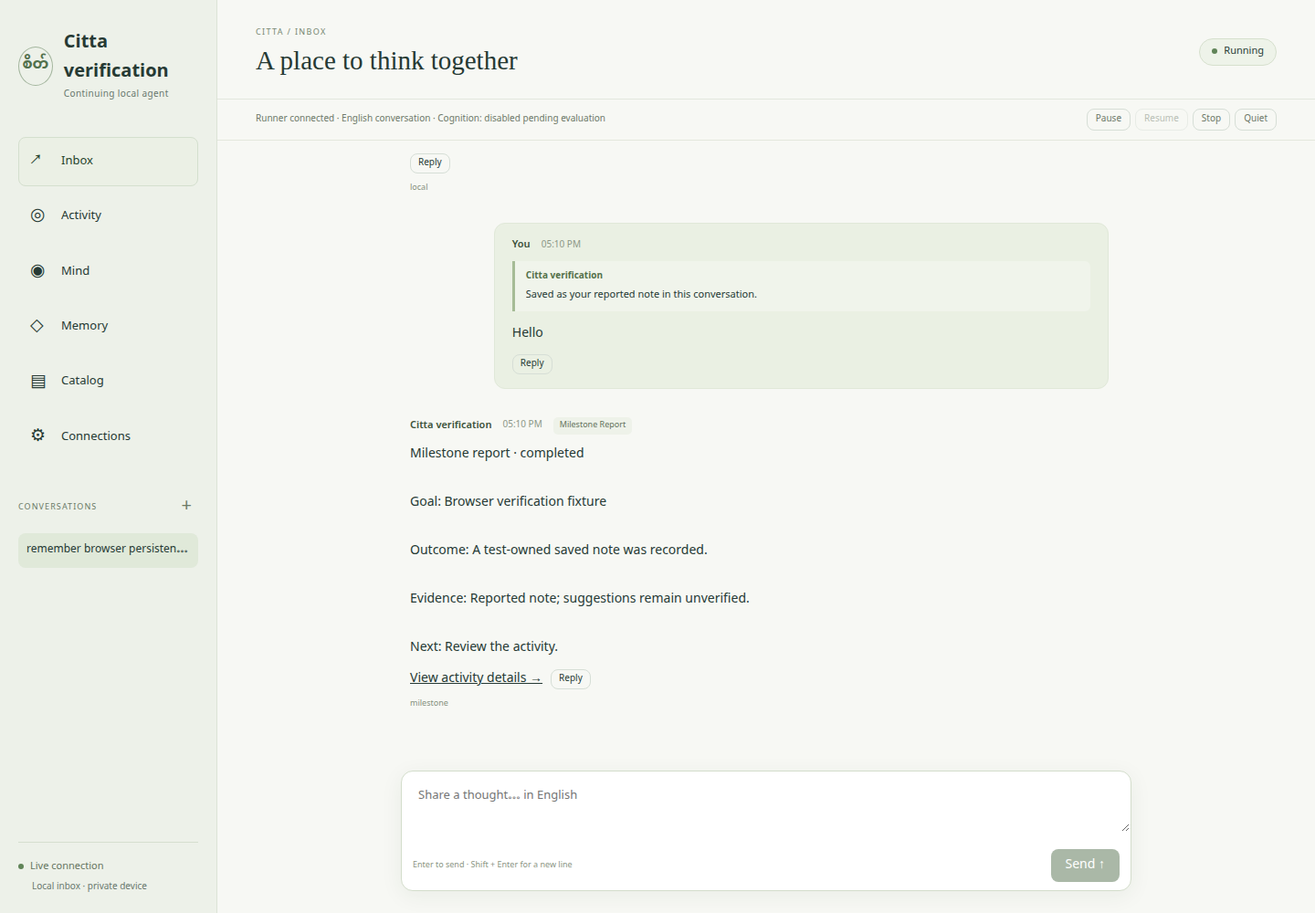
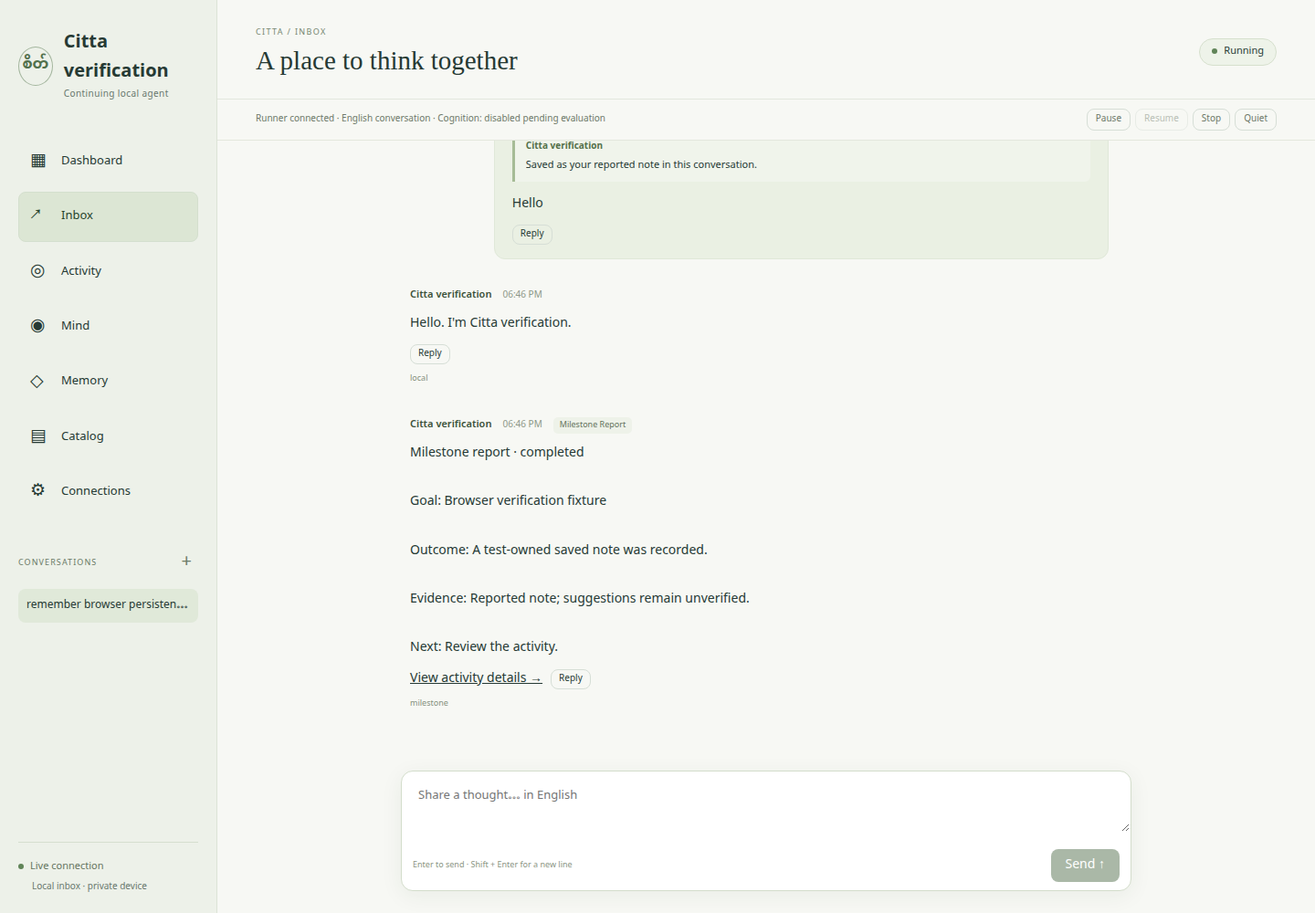
feat: add dashboard for Kyaw2 updates and questions

diff --git a/web/main.tsx b/web/main.tsx
@@ -1,16 +1,17 @@
+import {DashboardPage} from './DashboardPage.tsx';
 import {ConnectionsPage} from './ConnectionsPage.tsx';
 import React, {useCallback, useEffect, useLayoutEffect, useRef, useState} from 'react';
 import {createRoot} from 'react-dom/client';
-import type {RuntimeState, Message} from './types.ts';
+import type {RuntimeState, Message, DashboardMessage} from './types.ts';
 import {api} from './api.ts';
 import {MemoryRecords} from './MemoryRecords.tsx';
 import {MindPage} from './MindPage.tsx';
 import {ActivityPage} from './ActivityPage.tsx';
 import './style.css';
-type View = 'inbox'|'activity'|'mind'|'memory'|'catalog'|'connections';
+type View = 'dashboard'|'inbox'|'activity'|'mind'|'memory'|'catalog'|'connections';
 type Pending = {conversationId:string;messageId:string;text:string;replyToContactId?:string;replyToMessageId?:string};
 function readPending(): Pending|null { try {return JSON.parse(localStorage.getItem('citta.pending')||'null');} catch {return null;} }
-function viewFromHash():View {const name=location.hash.replace(/^#\/?/,'').split('/')[0];return ['inbox','activity','mind','memory','catalog','connections'].includes(name)?name as View:'inbox';}
+function viewFromHash():View {const name=location.hash.replace(/^#\/?/,'').split('/')[0];return ['dashboard','inbox','activity','mind','memory','catalog','connections'].includes(name)?name as View:'dashboard';}
 const timestamp = (value: string) => new Date(value).toLocaleTimeString([],{hour:'2-digit',minute:'2-digit'});
 function App() {
   const [view,setView]=useState<View>(viewFromHash);
@@ -43,6 +44,8 @@ function App() {
   const follow=useRef(true);
   const loadVersion=useRef(0);
   const draftRef=useRef<HTMLTextAreaElement>(null);
+  const dashboardReply=useRef<DashboardMessage|null>(null);
+  function openDashboardMessage(message:DashboardMessage,reply:boolean){dashboardReply.current=reply?message:null;setReplyMessage(null);setConversation(message.conversation_id);navigate('inbox');}
   const load=useCallback(async()=> {
     const version=++loadVersion.current;
     try {
@@ -79,6 +82,7 @@ function App() {
     observer.observe(element);return ()=>observer.disconnect();
   },[view,conversation]);
   useEffect(()=>{follow.current=true;setJump(false);setReplyMessage(null);setOlder([]);setHistoryEnd(false);previousWindow.current=[];historyRequested.current=false;},[conversation]);
+  useEffect(()=>{const message=dashboardReply.current;if(message&&view==='inbox'&&conversation===message.conversation_id&&loadedConversation===conversation){setReplyMessage({id:message.id,role:message.role,text:message.text});dashboardReply.current=null;draftRef.current?.focus();}},[view,conversation,loadedConversation]);
   useLayoutEffect(()=>{if(previousHeight.current&&thread.current){thread.current.scrollTop+=thread.current.scrollHeight-previousHeight.current;previousHeight.current=0;}},[older]);
   useEffect(()=> {
     const seen=()=>{if(view==='inbox'&&conversation&&document.visibilityState==='visible')void api('/api/seen',{conversationId:conversation}).catch(()=>{});};
@@ -117,16 +121,17 @@ function App() {
   const filtered=rows.filter(row=>(catalogType!=='citta'||row.projection==='shared'||row.projection===projection)&&JSON.stringify(row).toLocaleLowerCase().includes(search.toLocaleLowerCase()));
   return <div className="app">
     <aside className="rail">
-      <a className="brand" href="#" onClick={e=>{e.preventDefault();navigate('inbox');}}><span className="brand-mark">စိတ်</span><span>{state?.profile.name||'Citta'}<small>Continuing local agent</small></span></a>
-      <nav aria-label="Main navigation">{([['inbox','Inbox','↗'],['activity','Activity','◎'],['mind','Mind','◉'],['memory','Memory','◇'],['catalog','Catalog','▤'],['connections','Connections','⚙']] as const).map(([key,label,icon])=><button key={key} aria-current={view===key?'page':undefined} className={view===key?'selected':''} onClick={()=>navigate(key)}><span aria-hidden="true">{icon}</span>{label}{key==='activity'&&activeGoals.length>0&&<b>{activeGoals.length}</b>}</button>)}</nav>
+      <a className="brand" href="#" onClick={e=>{e.preventDefault();navigate('dashboard');}}><span className="brand-mark">စိတ်</span><span>{state?.profile.name||'Citta'}<small>Continuing local agent</small></span></a>
+      <nav aria-label="Main navigation">{([['dashboard','Dashboard','▦'],['inbox','Inbox','↗'],['activity','Activity','◎'],['mind','Mind','◉'],['memory','Memory','◇'],['catalog','Catalog','▤'],['connections','Connections','⚙']] as const).map(([key,label,icon])=><button key={key} aria-current={view===key?'page':undefined} className={view===key?'selected':''} onClick={()=>navigate(key)}><span aria-hidden="true">{icon}</span>{label}{key==='activity'&&activeGoals.length>0&&<b>{activeGoals.length}</b>}</button>)}</nav>
       <div className="conversation-heading"><span>CONVERSATIONS</span><button title="New conversation" aria-label="New conversation" onClick={()=>{setConversation(crypto.randomUUID());navigate('inbox');}}>+</button></div>
       <div className="conversations">{state?.conversations.map(c=><button key={c.id} className={conversation===c.id?'current':''} onClick={()=>{setConversation(c.id);navigate('inbox');}}>{c.title}</button>)}{!state?.conversations.length&&<p className="muted">Your conversations will appear here.</p>}</div>
       <div className="rail-footer"><span className={'dot '+(connected?'online':'')}/>{connected?'Live connection':'Reconnecting…'}<small>Local inbox · private device</small></div>
     </aside>
     <main>
-      <header className="topbar"><div><div className="eyebrow">CITTA / {view.toUpperCase()}</div><h1>{view==='inbox'?'A place to think together':view==='activity'?'Thought & ongoing work':view==='mind'?`${state?.profile.name||'Citta'}’s mind`:view==='memory'?'Saved experience':view==='connections'?'Connect reasoning':'Reference catalog'}</h1></div><div className={'mode '+(state?.agent.control||'offline')}><span className="dot"/>{state?.agent.control||'Connecting'}</div></header>
+      <header className="topbar"><div><div className="eyebrow">CITTA / {view.toUpperCase()}</div><h1>{view==='dashboard'?`${state?.profile.name||'Kyaw2'}’s dashboard`:view==='inbox'?'A place to think together':view==='activity'?'Thought & ongoing work':view==='mind'?`${state?.profile.name||'Citta'}’s mind`:view==='memory'?'Saved experience':view==='connections'?'Connect reasoning':'Reference catalog'}</h1></div><div className={'mode '+(state?.agent.control||'offline')}><span className="dot"/>{state?.agent.control||'Connecting'}</div></header>
       <div className="mobile-conversations"><label className="sr-only" htmlFor="conversation">Conversation</label><select id="conversation" value={conversation} onChange={e=>setConversation(e.target.value)}>{!state?.conversations.some(c=>c.id===conversation)&&<option value={conversation}>New conversation</option>}{state?.conversations.map(c=><option key={c.id} value={c.id}>{c.title}</option>)}</select><button aria-label="New conversation" onClick={()=>{setConversation(crypto.randomUUID());navigate('inbox');}}>＋ New</button></div><div className="controlbar"><span>{health.runner==='ready'?'Runner connected':'Runner unavailable'} · English conversation · Cognition: {health.cognition||'checking'}{health.cognition==='connect from Connections'&&<button className="connection-shortcut" onClick={()=>navigate('connections')}>Connect Codex →</button>}</span><div><button disabled={!state||busy||state.agent.control==='paused'} onClick={()=>void control('pause')}>Pause</button><button disabled={!state||busy||state.agent.control==='running'} onClick={()=>void control('resume')}>Resume</button><button disabled={!state||busy||state.agent.control==='stopped'} onClick={()=>void control('stop')}>Stop</button><button aria-pressed={state?.agent.quiet||false} disabled={!state||busy} onClick={()=>void control(state?.agent.quiet?'unquiet':'quiet')}>{state?.agent.quiet?'Quiet on':'Quiet'}</button></div></div>
       {error&&<div className="error" role="alert"><span>{error}</span><button aria-label="Dismiss error" onClick={()=>setError('')}>×</button></div>}
+      {view==='dashboard'&&<DashboardPage state={state} onOpen={openDashboardMessage} replyDisabled={sending||!!pending} onMind={()=>navigate('mind')} onActivity={id=>{location.hash='/activity/'+id;setView('activity');}}/>}
       {view==='inbox'&&<section className="inbox" aria-label="Conversation">
         {activeGoals.length>0&&<div className="ongoing"><span className="pulse"/> {activeGoals.length} ongoing {activeGoals.length===1?'commitment':'commitments'}<button onClick={()=>navigate('activity')}>View activity →</button></div>}
         <div className="thread" ref={thread} onScroll={()=>{const el=thread.current;if(el){follow.current=el.scrollHeight-el.scrollTop-el.clientHeight<100;if(follow.current)setJump(false);}}}>

diff --git a/tools/local/browser-verification.ts b/tools/local/browser-verification.ts
@@ -26,7 +26,7 @@ try {
   console.log('Browser: '+browser.version());
   const context=await browser.newContext({viewport:{width:1440,height:1000}}),page=await context.newPage();
   page.on('pageerror',e=>errors.push(e.message));page.on('console',m=>{if(m.type()==='error')errors.push(m.text());});
-  await page.goto(base);await expect(page.getByRole('heading',{name:'A place to think together'})).toBeVisible();
+  await page.goto(base+'/#/inbox');await expect(page.getByRole('heading',{name:'A place to think together'})).toBeVisible();
   const editor=page.getByRole('textbox',{name:'Message Citta'});
   await editor.fill('remember browser persistence check');await editor.press('Enter');
   await expect(page.locator('.message.citta').filter({hasText:'Saved as your reported note'})).toHaveCount(1,{timeout:15000});
@@ -61,14 +61,27 @@ try {
   await expect(page.locator('.reply-topic')).toBeVisible();await expect(editor).toBeFocused();
   await editor.fill('Hello');await editor.press('Enter');
   await expect(page.locator('.message.operator').last().locator('.message-quote')).toBeVisible();await expect(editor).toBeFocused();
+  await expect(page.locator('.message.citta').last()).toContainText("Hello. I'm Citta verification.");
   passed('conversation Reply quotes the selected message and keeps the composer focused');
   // Explicit browser-only report fixture; never inserted in the operator database.
   const reportGoal=(await db.query('SELECT id,observation_id FROM citta.goals WHERE agent_id=$1 AND conversation_id=$2 ORDER BY created_at LIMIT 1',[agent,conversation])).rows[0];
   await db.query("INSERT INTO citta.messages(id,agent_id,conversation_id,role,text,goal_id,observation_id,source) VALUES($1,$2,$3,'citta',$4,$5,$6,'milestone')",[randomUUID(),agent,conversation,'Milestone report · completed\n\nGoal: Browser verification fixture\n\nOutcome: A test-owned saved note was recorded.\n\nEvidence: Reported note; suggestions remain unverified.\n\nNext: Review the activity.',reportGoal.id,reportGoal.observation_id]);
-  await page.goto(base);await expect(page.getByRole('link',{name:'View activity details →'})).toBeVisible();
+  await page.goto(base+'/#/inbox');await page.reload();await expect(page.getByRole('link',{name:'View activity details →'})).toBeVisible();
   await page.getByRole('link',{name:'View activity details →'}).click();await expect(page.getByRole('heading',{name:'Processing steps'})).toBeVisible();
   await page.getByRole('button',{name:/Inbox/}).click();await expect(page.locator('.message').last()).toContainText('Milestone report');
   passed('milestone report is readable in conversation and opens its actual activity');
+  await page.goto(base);await expect(page.getByRole('navigation',{name:'Main navigation'}).getByRole('button',{name:'Dashboard',exact:true})).toHaveAttribute('aria-current','page');
+  await page.getByRole('button',{name:'Milestone reports',exact:true}).click();
+  const dashboardReport=page.locator('.dashboard-updates article').filter({hasText:'Browser verification fixture'});
+  await expect(dashboardReport).toBeVisible();await page.screenshot({path:'artifacts/verification/dashboard-desktop.png',fullPage:true});
+  await page.setViewportSize({width:390,height:844});assert.ok(await page.evaluate(()=>document.documentElement.scrollWidth<=innerWidth));await page.screenshot({path:'artifacts/verification/dashboard-mobile.png',fullPage:true});await page.setViewportSize({width:1440,height:1000});
+  await dashboardReport.getByRole('button',{name:'Reply',exact:true}).click();
+  await expect(page).toHaveURL(/#\/inbox$/);await expect(page.locator('.reply-topic')).toContainText('Browser verification fixture');await expect(editor).toBeFocused();
+  await page.getByRole('button',{name:'Cancel reply',exact:true}).click();
+  await page.getByRole('navigation',{name:'Main navigation'}).getByRole('button',{name:'Mind',exact:true}).click();await page.reload();await expect(page.getByRole('heading',{name:'Citta verification’s mind',exact:true})).toBeVisible();
+  await page.getByRole('navigation',{name:'Main navigation'}).getByRole('button',{name:'Inbox',exact:true}).click();await page.reload();await expect(editor).toBeVisible();
+  passed('dashboard landing/report filter opens the source quoted reply; refresh preserves Mind and Inbox');
+
   await page.screenshot({path:'artifacts/verification/milestone-desktop.png',fullPage:true});
   await page.setViewportSize({width:390,height:844});await expect(page.locator('.mobile-conversations')).toBeVisible();await expect(editor).toBeVisible();
   await expect.poll(()=>thread.evaluate(el=>el.scrollHeight-el.scrollTop-el.clientHeight)).toBeLessThan(30);
@@ -76,7 +89,7 @@ try {
   await page.screenshot({path:'artifacts/verification/milestone-mobile.png',fullPage:true});passed('desktop/mobile layouts keep navigation, conversation and composer within viewport');
   assert.deepEqual(errors,[]);passed('no browser console or uncaught page errors');
   await context.close();
-  await writeFile('artifacts/verification/milestone-browser-results.json',JSON.stringify({revision:'working-tree (milestone reports)',browser:browser.version(),checks,errors,limits:'Synthetic fixtures are isolated in citta_agent_test. Local cognition and external advice are disabled in this browser suite.'},null,2));
+  await writeFile('artifacts/verification/milestone-browser-results.json',JSON.stringify({revision:'working-tree (dashboard and continuing focus)',browser:browser.version(),checks,errors,limits:'Synthetic fixtures are isolated in citta_agent_test. Local cognition and external advice are disabled in this browser suite.'},null,2));
 } finally {
   await browser?.close();try{await temporal.workflow.getHandle('citta/'+agent).terminate('Browser verification teardown');}catch{}
   for(const child of children)child.kill('SIGTERM');

diff --git a/web/DashboardPage.tsx b/web/DashboardPage.tsx
@@ -1,0 +1,28 @@
+import {useCallback,useEffect,useRef,useState} from 'react';
+import {api} from './api.ts';
+import type {DashboardFeed,DashboardMessage,RuntimeState} from './types.ts';
+type Filter='all'|'questions'|'reports';
+export function DashboardPage({state,onOpen,onActivity,onMind,replyDisabled}:{state:RuntimeState|null;onOpen:(message:DashboardMessage,reply:boolean)=>void;onActivity:(goalId:string)=>void;onMind:()=>void;replyDisabled:boolean}){
+ const [filter,setFilter]=useState<Filter>('all');const [cursors,setCursors]=useState<string[]>([]);
+ const [feed,setFeed]=useState<DashboardFeed|null>(null);const [error,setError]=useState('');const [loading,setLoading]=useState(false);
+ const version=useRef(0);const before=cursors.at(-1);
+ const refresh=useCallback(async()=>{const request=++version.current;setLoading(true);
+  try{const data=await api<DashboardFeed>('/api/dashboard?filter='+filter+(before?'&before='+before:''));if(request===version.current){setFeed(data);setError('');}}
+  catch(e){if(request===version.current)setError(e instanceof Error?e.message:'Updates unavailable.');}
+  finally{if(request===version.current)setLoading(false);}
+ },[filter,before]);
+ useEffect(()=>{setFeed(null);setError('');void refresh();const timer=setInterval(()=>void refresh(),10000);return()=>{clearInterval(timer);version.current++;};},[refresh]);
+ useEffect(()=>{if(state?.events.length)void refresh();},[state?.events.at(-1)?.ordinal,refresh]);
+ return <section className="workspace dashboard-workspace" aria-label="Dashboard">
+  <div className="dashboard-intro"><h2>From {state?.profile.name||'Kyaw2'}</h2><p>Ideas, questions and milestone reports chosen for you, with their original conversations.</p></div>
+  {state?.focus&&<section className="dashboard-concern"><div><strong>Retained concern · {state.focus.state}</strong><p>{state.focus.topic.length>300?state.focus.topic.slice(0,300)+'…':state.focus.topic}</p>{state.focus.next_step&&<small>Next: {state.focus.next_step}</small>}</div><button onClick={onMind}>Open Mind →</button></section>}
+  <div className="dashboard-filters" aria-label="Filter updates">{([['all','All updates'],['questions','Needs your reply'],['reports','Milestone reports']] as const).map(([value,label])=><button key={value} aria-pressed={filter===value} onClick={()=>{setFilter(value);setCursors([]);}}>{label}</button>)}<button onClick={()=>void refresh()} disabled={loading}>Refresh</button></div>
+  <p className="muted">Up to 10 updates per page.{cursors.length?' Viewing earlier updates.':''}</p>
+  {error&&<div className="error" role="alert"><span>{error}</span><button onClick={()=>void refresh()}>Retry</button></div>}
+  {!feed&&loading&&<p role="status">Loading shared updates…</p>}
+  {feed&&!feed.items.length&&<div className="empty">{filter==='questions'?'No published question is currently waiting for your answer.':filter==='reports'?'No milestone report on this page yet. Reports appear when substantial work reaches a milestone.':'No shared updates yet. Private reflections stay in Mind until Kyaw2 chooses to share something.'}</div>}
+  <div className="dashboard-updates">{feed?.items.map(m=><article className="card" key={m.id}><div className="card-top"><span className="tag">{m.needs_reply?'Needs your reply':m.source==='milestone'?'Milestone report':'Idea / update'}</span><time>{new Date(m.created_at).toLocaleString()}</time></div><p className="dashboard-conversation">{m.conversation_title}{m.contact_state==='answered'?' · answered':m.contact_state==='seen'?' · seen':''}</p><div className="message-text">{m.text}</div><div className="dashboard-actions"><button onClick={()=>onOpen(m,false)}>Open conversation</button><button disabled={replyDisabled} onClick={()=>onOpen(m,true)}>Reply</button>{m.goal_id&&<button onClick={()=>onActivity(m.goal_id)}>View activity →</button>}</div></article>)}</div>
+  <div className="dashboard-paging"><button disabled={!cursors.length||loading} onClick={()=>setCursors(current=>current.slice(0,-1))}>← Newer</button><button disabled={!feed?.hasOlder||loading} onClick={()=>{if(feed?.nextBefore)setCursors(current=>[...current,feed.nextBefore!]);}}>Older →</button></div>
+  {!!feed?.queued.length&&<details className="dashboard-queued"><summary>Waiting to share · {feed.queued.length}{feed.queued.length===10?' latest':''}</summary><p className="muted">These are queued proposals, not delivered messages.{state?.agent.quiet?' Quiet mode is on.':' Delivery still follows timing and contact limits.'}</p>{feed.queued.map(q=><article key={q.id}><span className="tag">{q.state}</span><p>{q.text}</p><small>Why proposed: {q.reason}</small><button onClick={()=>onActivity(q.goal_id)}>View activity →</button></article>)}</details>}
+ </section>;
+}

diff --git a/web/style.css b/web/style.css
@@ -18,3 +18,8 @@
 .mind-focus{border:1px solid #cbdcc2;border-left:3px solid #658956;border-radius:8px;background:#f0f5eb;padding:16px 18px;margin-bottom:16px}.mind-focus strong{font-size:16px;font-weight:550}.mind-focus p{margin:7px 0 0;font-size:13px;color:#4f6648}.activity-wait{margin:18px 0;padding:16px;border:1px solid #dfd9b5;background:#f8f5e8;border-radius:8px}.activity-wait>strong{font-size:13px}.activity-wait>p{margin-top:8px}.activity-wait form{display:grid;gap:8px}.activity-wait label{font-size:12px}.activity-wait textarea{resize:vertical;min-height:90px;max-height:250px;width:100%;border:1px solid #d0d7c5;border-radius:7px;padding:10px}.activity-wait form button{justify-self:start}.activity-row .tag{white-space:normal}
 
 .message-actions{display:flex;gap:9px;flex-wrap:wrap;margin-top:9px}.message-actions button{font-size:10px;padding:2px 8px;background:transparent}.message-quote{margin:0 0 12px;padding:8px 12px;border-left:3px solid #a6bc96;background:#f0f4eb;border-radius:0 6px 6px 0;font-size:11px}.message-quote strong{font-size:10px;color:#537049}.message-quote p{margin:3px 0 0;white-space:pre-wrap;overflow-wrap:anywhere;display:-webkit-box;-webkit-line-clamp:3;-webkit-box-orient:vertical;overflow:hidden}.reply-topic{display:flex;justify-content:space-between;align-items:flex-start;gap:10px}.reply-topic>div{min-width:0}.reply-topic p{font-size:11px;line-height:1.5;margin:4px 0 0;overflow-wrap:anywhere;white-space:pre-wrap}.reply-topic button{flex:none}.question-tag{background:#f4efd6;color:#6f602b}
+
+.dashboard-workspace{overflow-y:auto}.dashboard-intro p{color:#63725c;max-width:720px}.dashboard-filters,.dashboard-actions,.dashboard-paging{display:flex;gap:8px;flex-wrap:wrap}.dashboard-filters{margin:22px 0 12px}.dashboard-filters [aria-pressed=true]{background:#dce6d4;border-color:#9eb293}.dashboard-updates .card{margin-bottom:16px}.dashboard-updates time{font-size:11px;color:#69786e}.dashboard-conversation{font-size:12px;color:#69786e;margin:10px 0}.dashboard-actions{margin-top:18px}.dashboard-paging{justify-content:space-between;margin:20px 0}.dashboard-concern{display:flex;align-items:flex-start;gap:18px;justify-content:space-between;background:#f0f5eb;border:1px solid #cbdcc2;border-radius:9px;padding:16px}.dashboard-concern>div{min-width:0}.dashboard-concern p{margin:8px 0;overflow-wrap:anywhere}.dashboard-concern>button{flex-shrink:0}.dashboard-queued{margin:24px 0}.dashboard-queued article{padding:16px 0;border-bottom:1px solid #dce3d7;overflow-wrap:anywhere}.dashboard-queued article small{display:block;margin-bottom:12px}.dashboard-queued article p{white-space:pre-wrap;margin:10px 0}
+@media(max-width:560px){nav{overflow-x:auto;justify-content:flex-start;scrollbar-width:thin}nav button{flex:0 0 43px;font-size:9px;padding:5px 3px}.dashboard-concern{flex-direction:column}.dashboard-updates .card-top{align-items:flex-start;flex-wrap:wrap}.dashboard-actions button{font-size:12px}.dashboard-filters button{font-size:12px}.dashboard-workspace .message-text{overflow-wrap:anywhere}}
+
+@media(max-width:560px){.rail .brand{display:none}nav{justify-content:space-between}}

diff --git a/tools/local/integration.ts b/tools/local/integration.ts
@@ -210,6 +210,18 @@ try {
   assert.equal(acceptedQuote.reply_to.id,quotedMessage.id);assert.equal(acceptedQuote.goal_id,quotedGoal.goal);
   assert.equal((await request('/api/messages',{...quotedReply,text:'changed'})).status,409);
   passed('conversation reply retains scoped quote, resumes original task and stays idempotent after completion');
+  const dashboardQuestion=await recordedProposal('CLARIFY','Which source should the dashboard update use?');
+  await until(()=>request('/api/dashboard?filter=questions'),r=>r.data.items?.some((m:any)=>m.goal_id===dashboardQuestion.goal&&m.needs_reply));
+  snapshot=await state();await request('/api/control',{requestId:randomUUID(),operation:'quiet',expectedVersion:snapshot.agent.control_version});
+  const queuedQuestion=await recordedProposal('CLARIFY','A queued test question waiting for permission to share',{kind:'mental'});
+  await until(()=>request('/api/dashboard'),r=>r.data.queued?.some((c:any)=>c.goal_id===queuedQuestion.goal));
+  for(let i=0;i<12;i++)await db.query("INSERT INTO citta.messages(id,agent_id,conversation_id,role,text,source,goal_id,observation_id) VALUES($1,$2,$3,'citta',$4,'milestone',$5,$6)",[randomUUID(),agent,conversationId,'Dashboard fixture '+i,upgrade.goal,upgrade.input]);
+  const firstPage=(await request('/api/dashboard?filter=reports')).data;
+  assert.equal(firstPage.items.length,10);assert.equal(firstPage.hasOlder,true);assert.ok(firstPage.items.every((m:any)=>m.source==='milestone'&&m.conversation_id===conversationId));
+  const secondPage=(await request('/api/dashboard?filter=reports&before='+firstPage.nextBefore)).data;
+  assert.ok(secondPage.items.length);assert.ok(secondPage.items.every((m:any)=>!firstPage.items.some((n:any)=>n.id===m.id)));
+  assert.equal((await request('/api/dashboard?filter=wrong')).status,400);assert.equal((await request('/api/dashboard?before=invalid')).status,400);
+  passed('dashboard reads actual questions/reports/queued contacts, preserves source scope and pages ten rows without duplicates');
   const {rows:decisions}=await db.query<RecordedDecision>('SELECT id,engine,policy,snapshot,decision FROM citta.decisions WHERE agent_id=$1 ORDER BY created_at',[agent]);
   const replay=decisions.map(replayDecision);assert.ok(replay.length>5);assert.deepEqual(replay.filter(r=>r.state!=='matched'),[]);passed('offline replay of actual committed decisions');
   const archive={goals:(await db.query('SELECT id,state,version FROM citta.goals WHERE agent_id=$1',[agent])).rows,frames:(await db.query('SELECT goal_id,state,parent_goal_id,continuation_depth FROM citta.frames WHERE agent_id=$1',[agent])).rows,transitions:(await db.query('SELECT goal_id,version,previous_state,state,ordinal FROM citta.goal_transitions WHERE agent_id=$1 ORDER BY ordinal',[agent])).rows,actions:(await db.query('SELECT id,goal_id,goal_version,kind,state,reviewed FROM citta.actions WHERE agent_id=$1',[agent])).rows};

diff --git a/src/app/server.ts b/src/app/server.ts
@@ -12,7 +12,7 @@ import { config } from './config.ts';
 import { capabilities } from '../modules/kamma/registry.ts';
 import type { ServerResponse } from 'node:http';
 import { pool } from '../infra/postgres/database.ts';
-import { initialize, ingest, control, getState, eventsAfter, markSeen, declineContact, messageHistory, reviewProposal, goalDetail, replyToGoal, Conflict, Missing, type ControlRequest, type ProposalReviewRequest } from '../infra/postgres/runtime-repository.ts';
+import { initialize, ingest, control, getState, dashboardFeed, eventsAfter, markSeen, declineContact, messageHistory, reviewProposal, goalDetail, replyToGoal, Conflict, Missing, type ControlRequest, type ProposalReviewRequest } from '../infra/postgres/runtime-repository.ts';
 const app = Fastify({logger:{level:'info',redact:['req.headers.authorization','req.headers.cookie','req.body.apiKey']},bodyLimit:24000});
 const streams=new Set<ServerResponse>();
 app.addHook('preClose',async()=>{for(const stream of streams)stream.end();streams.clear();});
@@ -62,6 +62,7 @@ app.post<{Body:{conversationId:string;messageId:string;text:string;replyToContac
   return reply.code(202).send(result);
 });
 app.post<{Body:ControlRequest}>('/api/control',{schema:{body:{type:'object',additionalProperties:false,required:['requestId','operation','expectedVersion'],properties:{requestId:uuid,operation:{enum:['pause','resume','stop','cancel','extend','quiet','unquiet']},expectedVersion:{type:'integer',minimum:0},goalId:uuid}}}},async request=>control(request.body));
+app.get<{Querystring:{filter?:'all'|'questions'|'reports';before?:string}}>('/api/dashboard',{schema:{querystring:{type:'object',additionalProperties:false,properties:{filter:{enum:['all','questions','reports']},before:{type:'string',pattern:'^[0-9]{1,18}$'}}}}},async request=>dashboardFeed(request.query.filter,request.query.before));
 app.post<{Body:{conversationId:string}}>('/api/seen',{schema:{body:{type:'object',additionalProperties:false,required:['conversationId'],properties:{conversationId:uuid}}}},async request=>{await markSeen(request.body.conversationId);return {ok:true};});
 app.post<{Body:{contactId:string}}>('/api/contact/decline',{schema:{body:{type:'object',additionalProperties:false,required:['contactId'],properties:{contactId:uuid}}}},async request=>declineContact(request.body.contactId));
 app.post<{Body:ProposalReviewRequest}>('/api/proposals/review',{schema:{body:{type:'object',additionalProperties:false,required:['requestId','proposalId','expectedVersion','decision'],properties:{requestId:uuid,proposalId:uuid,expectedVersion:{type:'integer',minimum:1},decision:{enum:['accepted','declined']}}}}},async request=>reviewProposal(request.body));

diff --git a/src/infra/postgres/runtime-repository.ts b/src/infra/postgres/runtime-repository.ts
@@ -245,3 +245,29 @@ export async function goalDetail(id:string) {
     return {goal,frame,versions,transitions,decisions,actions,steps:activitySteps(decisions,actions)};
   });
 }
+
+export async function dashboardFeed(filter:'all'|'questions'|'reports'='all',before?:string){
+ const agentId=config.agentId;
+ const {rows}=await pool.query(`WITH candidates AS (
+   (SELECT m.id,m.ordinal FROM citta.messages m WHERE m.agent_id=$1 AND m.role='citta'
+    AND $2<>'questions' AND (m.initiative OR m.source='milestone')
+    AND ($2<>'reports' OR m.source='milestone')
+    AND COALESCE(m.contact_state,'') NOT IN ('declined','expired')
+    AND ($3::bigint IS NULL OR m.ordinal<$3::bigint) ORDER BY m.ordinal DESC LIMIT 11)
+   UNION
+   (SELECT m.id,m.ordinal FROM citta.goals g JOIN LATERAL (
+     SELECT id,ordinal FROM citta.messages WHERE agent_id=g.agent_id AND goal_id=g.id
+     AND conversation_id=g.conversation_id AND role='citta' ORDER BY ordinal DESC LIMIT 1
+    ) m ON true WHERE g.agent_id=$1 AND $2<>'reports' AND g.state='waiting'
+    AND g.wait_reason IN ('operator_input','evidence_or_operator_input')
+    AND ($3::bigint IS NULL OR m.ordinal<$3::bigint) ORDER BY m.ordinal DESC LIMIT 11)
+  ) SELECT ${conversationMessageFields},m.conversation_id,c.title AS conversation_title
+  FROM (SELECT id,ordinal FROM candidates ORDER BY ordinal DESC LIMIT 11) candidate
+  JOIN citta.messages m ON m.id=candidate.id AND m.agent_id=$1
+  JOIN citta.conversations c ON c.id=m.conversation_id AND c.agent_id=m.agent_id
+  ${conversationMessageJoins} ORDER BY m.ordinal DESC`,[agentId,filter,before||null]);
+ const {rows:queued}=await pool.query(`SELECT id,goal_id,conversation_id,text,reason,state,created_at FROM citta.contacts
+  WHERE agent_id=$1 AND state IN ('created','deferred') AND expires_at>now() ORDER BY created_at DESC,id LIMIT 10`,[agentId]);
+ const items=rows.slice(0,10);
+ return {items,queued,hasOlder:rows.length>10,nextBefore:items.at(-1)?.ordinal||null};
+}

diff --git a/tests/domain.test.ts b/tests/domain.test.ts
@@ -154,3 +154,14 @@ test('profile interruption stays local and does not invent completion of prior w
   const answer=considerLocal(ctx)!;assert.equal(answer.action,'RESPOND');assert.match(answer.text,/Test identity/);assert.doesNotMatch(answer.text,/completed|finished/);
   assert.throws(()=>validateProposal({...proposal,text:'My name is Test identity. I have completed your earlier task as instructed.',goalReview:{criterion:'Task',status:'met',evidenceIds:['profile']}},ctx),/unfinished commitments/);
 });
+
+test('goal backlog cannot crowd out the current request and retained focus evidence',()=>{
+ const focus={id:'focus',version:1,topic:'A sourced concern',turns:1,lastOutcome:'A question was identified',nextStep:'Read the supporting note',reason:'Continue the same concern',sourceMemoryId:'focus-note',sourceConversationId:'conversation'};
+ const ctx:Context={...base,text:'Continue my task',goalCriterion:'Keep this criterion exactly',focus,
+  eligibleGoals:Array.from({length:10},(_,i)=>({id:'old-'+i,description:'Old internal opportunity '.repeat(100),criterion:'An unchanged old criterion',state:'exhausted',version:1})),
+  evidence:[{id:'focus-note',kind:'reported',origin:'memory',content:'Operator supplied concern'},{id:'input',kind:'reported',origin:'observation',content:'Continue my task'}]};
+ const selected=selectContext(ctx);
+ assert.equal(selected.text,ctx.text);assert.equal(selected.goalCriterion,ctx.goalCriterion);assert.equal(selected.focus?.id,focus.id);
+ assert.ok(selected.evidence.some(e=>e.id==='focus-note'));assert.equal(selected.contextSelection?.omittedGoals,10);
+ assert.ok(Buffer.byteLength(JSON.stringify(selected))<=10000);assert.equal(ctx.eligibleGoals?.length,10);
+});

diff --git a/web/types.ts b/web/types.ts
@@ -13,3 +13,6 @@ export interface RuntimeState {
  actions:{id:string;goal_id:string;kind:string;state:string;motive?:string}[];
   memories:{id:string;kind:string;content:string;source_id:string;supersedes?:string;valid:boolean;created_at:string}[];
 }
+
+export interface DashboardMessage extends Message {conversation_id:string;conversation_title:string}
+export interface DashboardFeed {items:DashboardMessage[];queued:{id:string;goal_id:string;conversation_id:string;text:string;reason:string;state:string;created_at:string}[];hasOlder:boolean;nextBefore:string|null}

diff --git a/doc/delivery/status.md b/doc/delivery/status.md
@@ -252,3 +252,11 @@ Verification for this slice: source review and git diff --check only. No tests, 
 Read-only inspection matched goal 2a453348-12d4-40aa-aa73-201ba9a4e816. Its only INFER action failed with the old selected-context budget error. work_ms=8 against budget_ms=300000, cycles=2; this is not elapsed-work exhaustion. Focus was a new zero-turn curiosity episode seeded from configured aspiration “assist”, with no accepted outcome. The quoted opportunity text is scheduler instruction/provenance, not generated thought. The prior context-selection source fix remains unactivated, explaining continued errors.
 
 Added source-only portal clarity: exhausted Activity details show the exact stored failure summary upfront; Mind distinguishes an outcome-free curiosity seed from an established concern using source/turn metadata. Added source_memory_id to the public focus metadata solely to make that distinction correctly. No state/history edits, tests, build or restart performed. On activation, new eligible focus selection can proceed with the corrected selector; do not fabricate an outcome for 1339 or blindly extend its stale internal cue. Full focus lifecycle acceptance still pending.
+
+## Operator dashboard — implemented and verified before formatting
+
+Committed prior runtime/focus/context/diagnostic work on main as 86ce858 at Kyaw’s request; no push. Added Dashboard landing route, agent-wide published initiative/question/report feed, ten-record keyset pages and filters, explicit queued/deferred section, retained-concern link, and source conversation/activity navigation. Reply prepares the existing quoted composer, preserving its receipt/retry behavior and original conversation. Added migration 011 feed indexes; no new external integration or synthetic operator notification.
+
+Verification before the requested mechanical formatting: typecheck and Vite build passed; 27 isolated integration checks passed including dashboard question/report/queued-source reads, filter validation and pagination. Browser checks passed dashboard landing, report filter, source quoted Reply, refresh, existing keyboard/persistence/scrolling and desktop/mobile layout with no page errors. Dashboard desktop/mobile screenshots were visually inspected; mobile brand duplication was removed so all seven navigation labels fit. 33 unit tests passed, including the new context-backlog regression; final post-format checks are next. Two actual previously failed operator contexts were replayed read-only through the fixed selector without model calls: 15002/15185 bytes reduced to 6687/6843 bytes, with request, current criterion and focus IDs preserved and zero evidence omissions.
+
+Browser harness fixes: waited for the real greeting response before inserting its separate report fixture, and explicitly reloaded after direct fixture SQL (no SSE event was produced by that test-only SQL). These were fixture/navigation timing issues; no application checks were disabled. Dashboard fixture data remains only in citta_agent_test. Updated operating/contract/skill owners. Operator services have not yet restarted for this dashboard; formatting, final checks and authorized restart follow, then module/service review one by one.

diff --git a/doc/design/contracts.md b/doc/design/contracts.md
@@ -432,3 +432,9 @@ The inference limit applies to the complete serialized context, including goal d
 If required context still cannot fit after optional selection, report an application-side context-budget failure with the byte limit/size; do not automatically blame the user, describe configured Codex as an unavailable cloud fallback, or silently truncate the current task/criterion. Selection policy is recorded with the selected provider context. A policy change can make a previously context-blocked focus eligible for reconsideration without reopening exhausted source tasks or expanding work budgets.
 
 Activity details must show the stored failure summary prominently for exhausted work. Exhausted is a terminal work state and can mean input selection, authorization, inference or budget failure; it must not imply elapsed-time exhaustion without the corresponding recorded reason. Internal-opportunity instructions remain inspectable as cue provenance, not labelled as generated thought. A zero-turn, outcome-free curiosity focus is a starting interest while a concrete concern is being selected.
+
+### Operator dashboard
+
+Dashboard is the portal landing page for what Kyaw2 has chosen to communicate: actual published initiatives, current unanswered questions and milestone reports across the same agent’s conversations. Show at most ten records per page, newest first, with All/Questions/Reports filters and explicit older-page navigation. Opening a record uses its originating conversation and authoritative message ID; Reply prepares the existing quoted composer/idempotent ingestion path. Never generate a notification merely to fill the dashboard.
+
+Queued/deferred contacts appear separately as not yet delivered, with their recorded proposal reason. Viewing them does not override Quiet, timing, unanswered-contact limits, expiry, decline or authorization. Current retained focus is a separate link to Mind, not another claimed message. Agent scope is enforced in all reads; source conversation provenance remains visible. Dashboard/history loading errors and retry are explicit. Published questions/reports have a direct activity link, and terminal/declined contacts are not revived by viewing them.

diff --git a/doc/operations/local.md b/doc/operations/local.md
@@ -159,3 +159,9 @@ Portal view navigation writes the current view into the URL hash. Refresh restor
 ## Inference context-budget errors
 
 The selector bounds complete context to 10,000 UTF-8 bytes, rather than a token count. It excludes exhausted/closed targets, excerpts optional descriptions, reduces background goals before evidence, protects current request/criterion/focus sources and records omitted/excerpted context metadata. The original stored memories/tasks are not deleted. “Undetermined” on an infrastructure error means no modeled tone was assigned; it is not evidence of a human feeling. An irreducible request/focus/policy overflow is reported as an application context limit before a provider call, not as a request to use cloud fallback when Codex is already configured.
+
+## Dashboard
+
+Dashboard is the landing page. It shows ten actual shared updates at a time across Kyaw2’s conversations: initiatives, unanswered questions and milestone reports. Use All updates, Needs your reply or Milestone reports, and Older/Newer to browse history. Reply opens the source conversation with that message quoted in the existing composer. View activity opens the originating goal. A retained-concern preview links to Mind.
+
+Waiting to share shows up to ten currently queued/deferred contacts, explicitly not delivered. Opening the dashboard does not override Quiet or delivery limits. Source messages/history remain authoritative. Migration 011 adds feed indexes; apply before deploying the new API. Dashboard reads do not mark messages answered or approve proposals.
